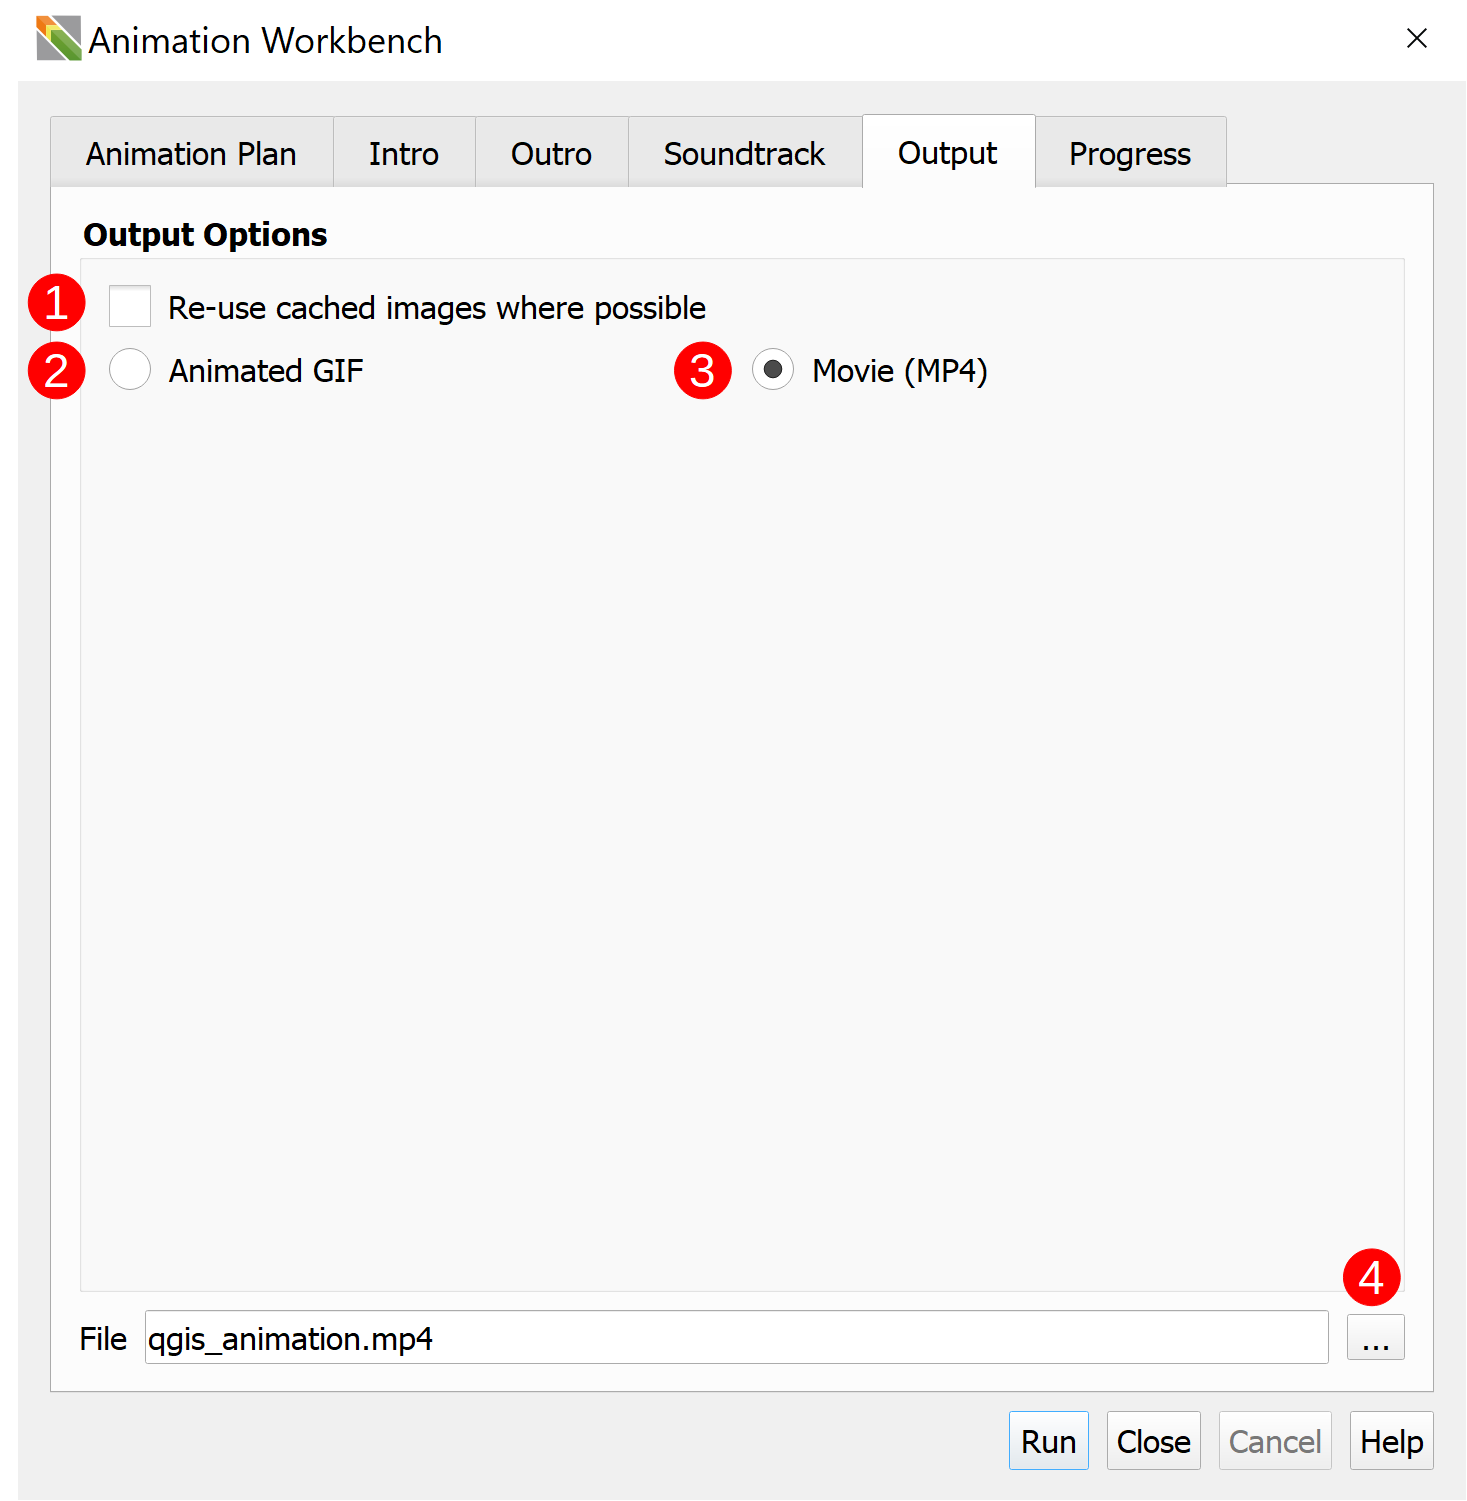
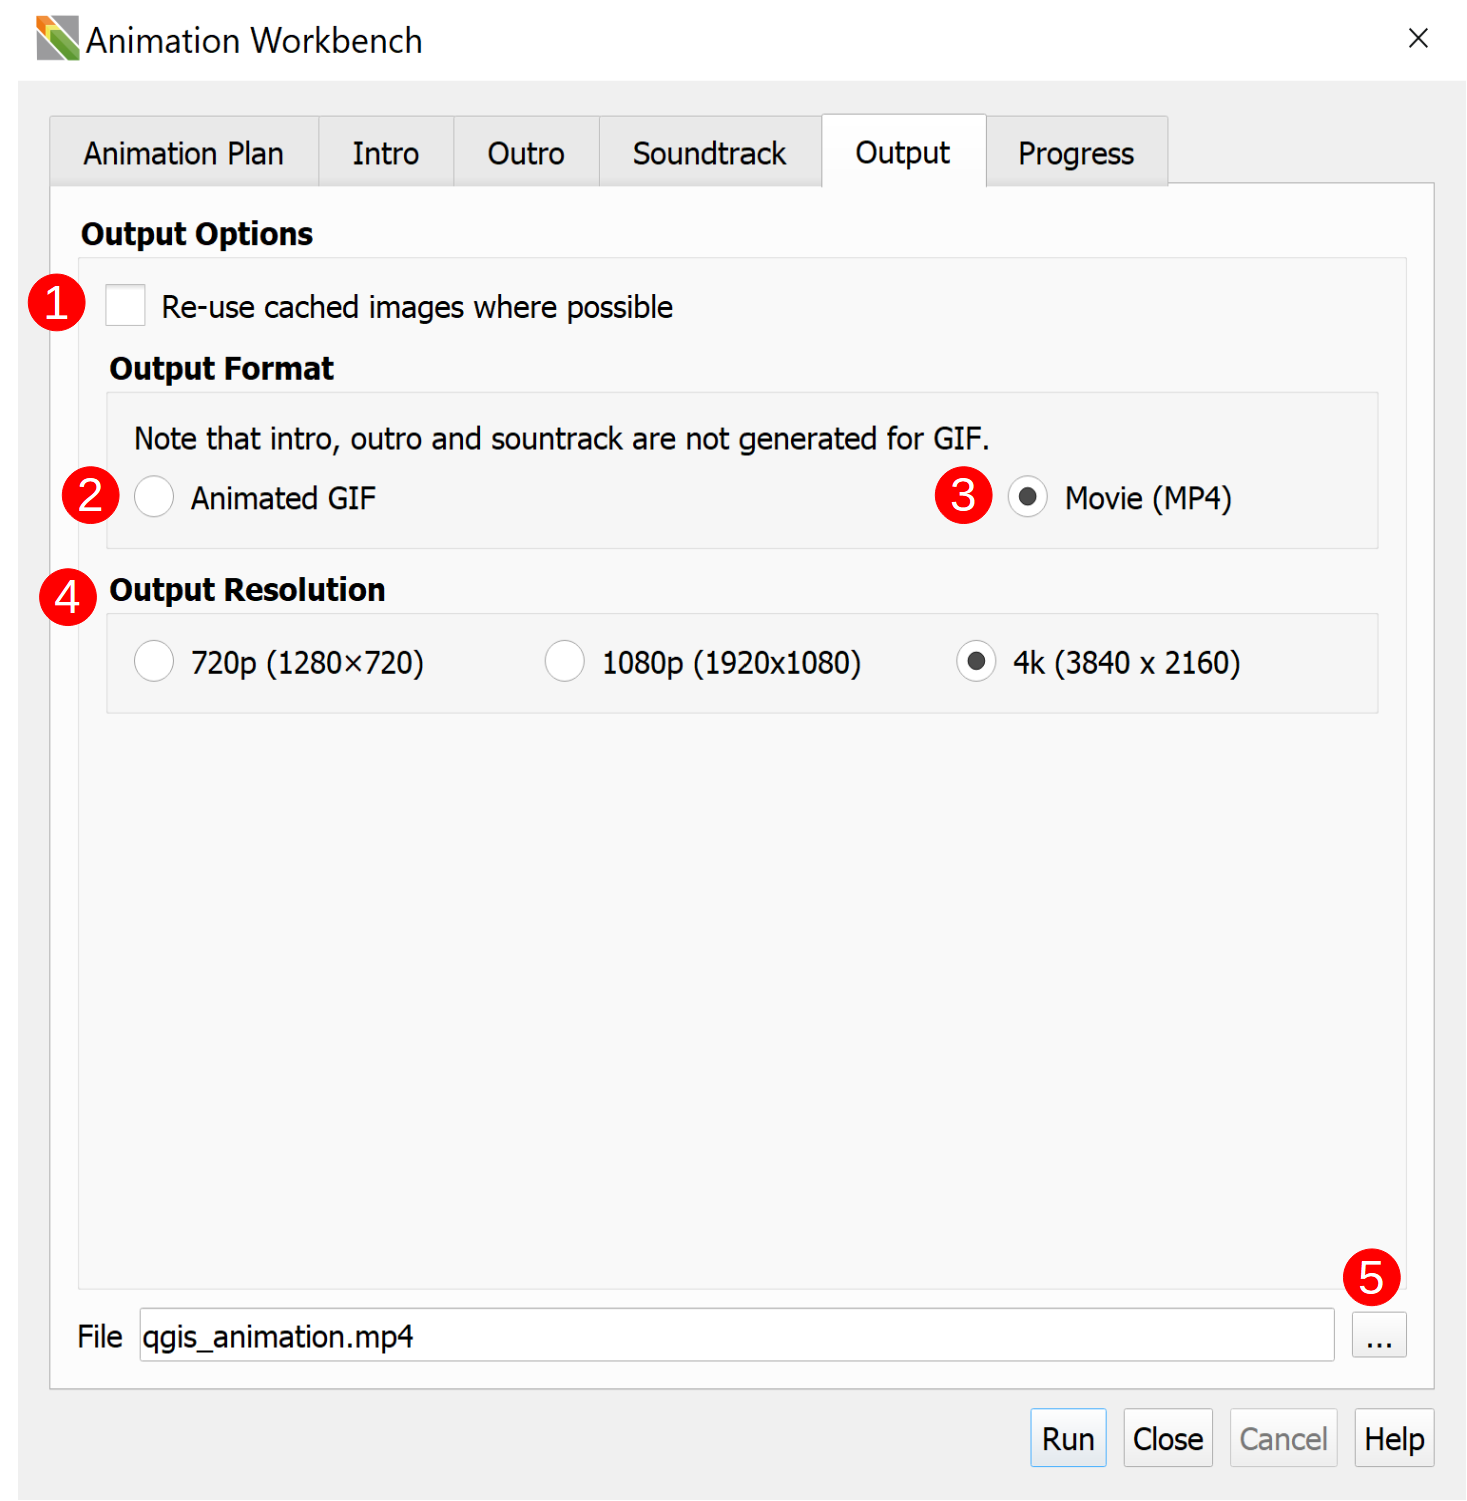
📝 Updated output screenshot and text.

diff --git a/docs/manual/workbench_ui.md b/docs/manual/workbench_ui.md
@@ -120,16 +120,19 @@ Edit the outro section of the generated movie here.
     application available on your system.
   - **`3`** Movie (MP4): For this option to work, you need to have the 'ffmpeg' application
     on your system.
-  - **`4`**. File selection (ellipsis): This lets a user select the location where the output
+  - **`4`** Output Resolution: Allows a user to specify one of three image resolutions for
+    the output animation. The numbers in brackets represent the width and height of the
+    output in pixels (i.e. width x height).
+  - **`5`** File selection (ellipsis): This lets a user select the location where the output
     will be stored.
 
 ## Progress
 
 ![Progress Tab](img/007_ProgressTab_1.png)
 
-- **`1`**. Frame Preview: A preview of what each frame of the animation will look like.
+- **`1`** Frame Preview: A preview of what each frame of the animation will look like.
             It changes automatically as the workbench runs.
-- **`2`**. Progress: This provides a detailed look at what is happening while the workbench
+- **`2`** Progress: This provides a detailed look at what is happening while the workbench
             runs.
   - Total Tasks: This number represents the total number of frames that will be generated
     by the workbench.
